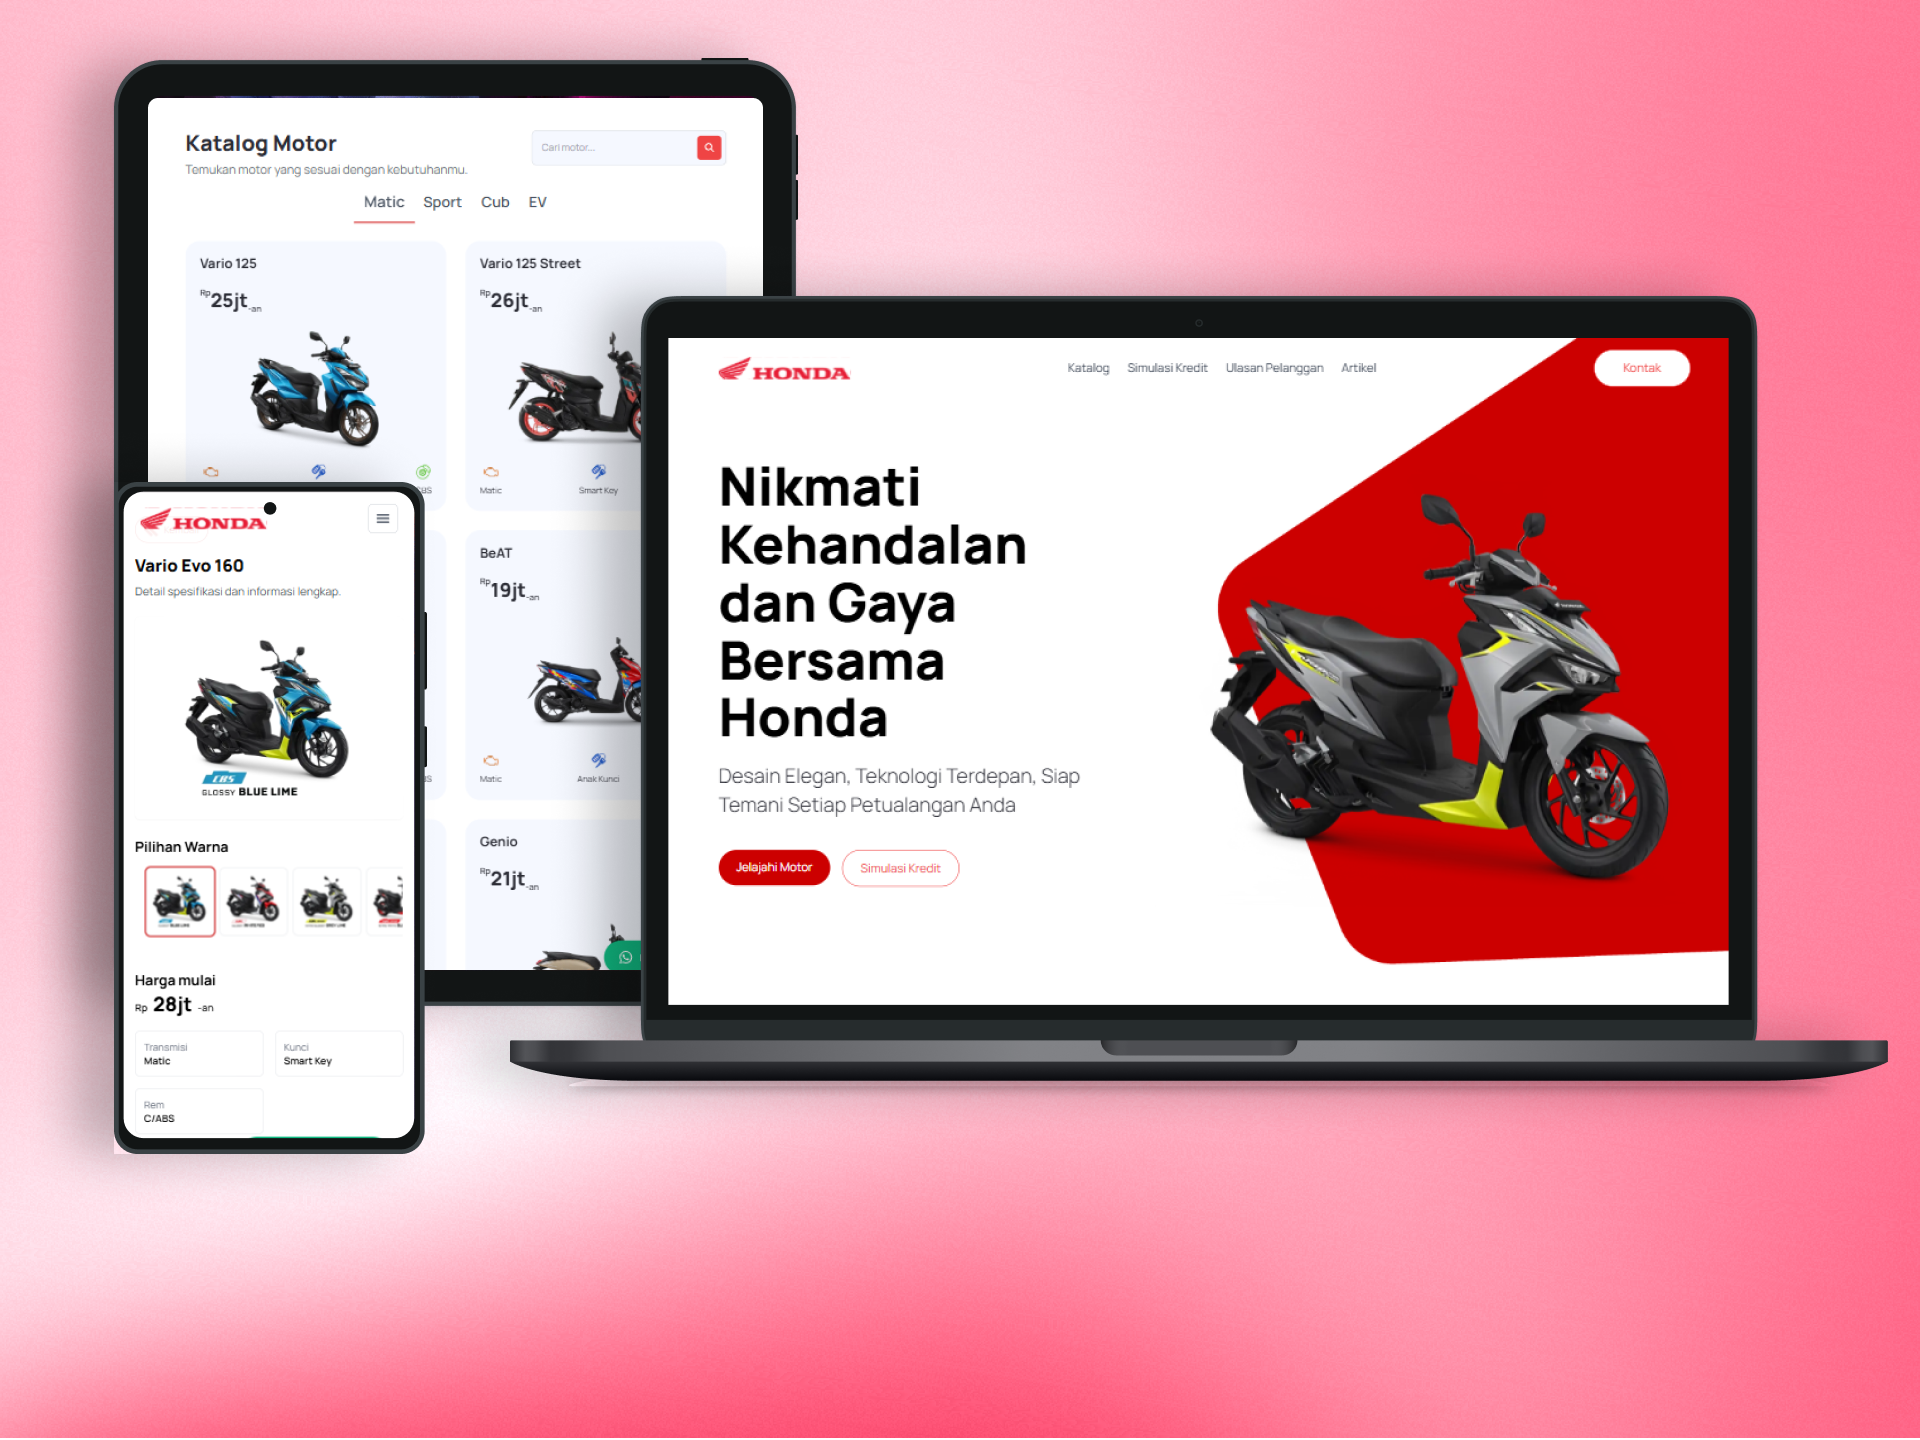
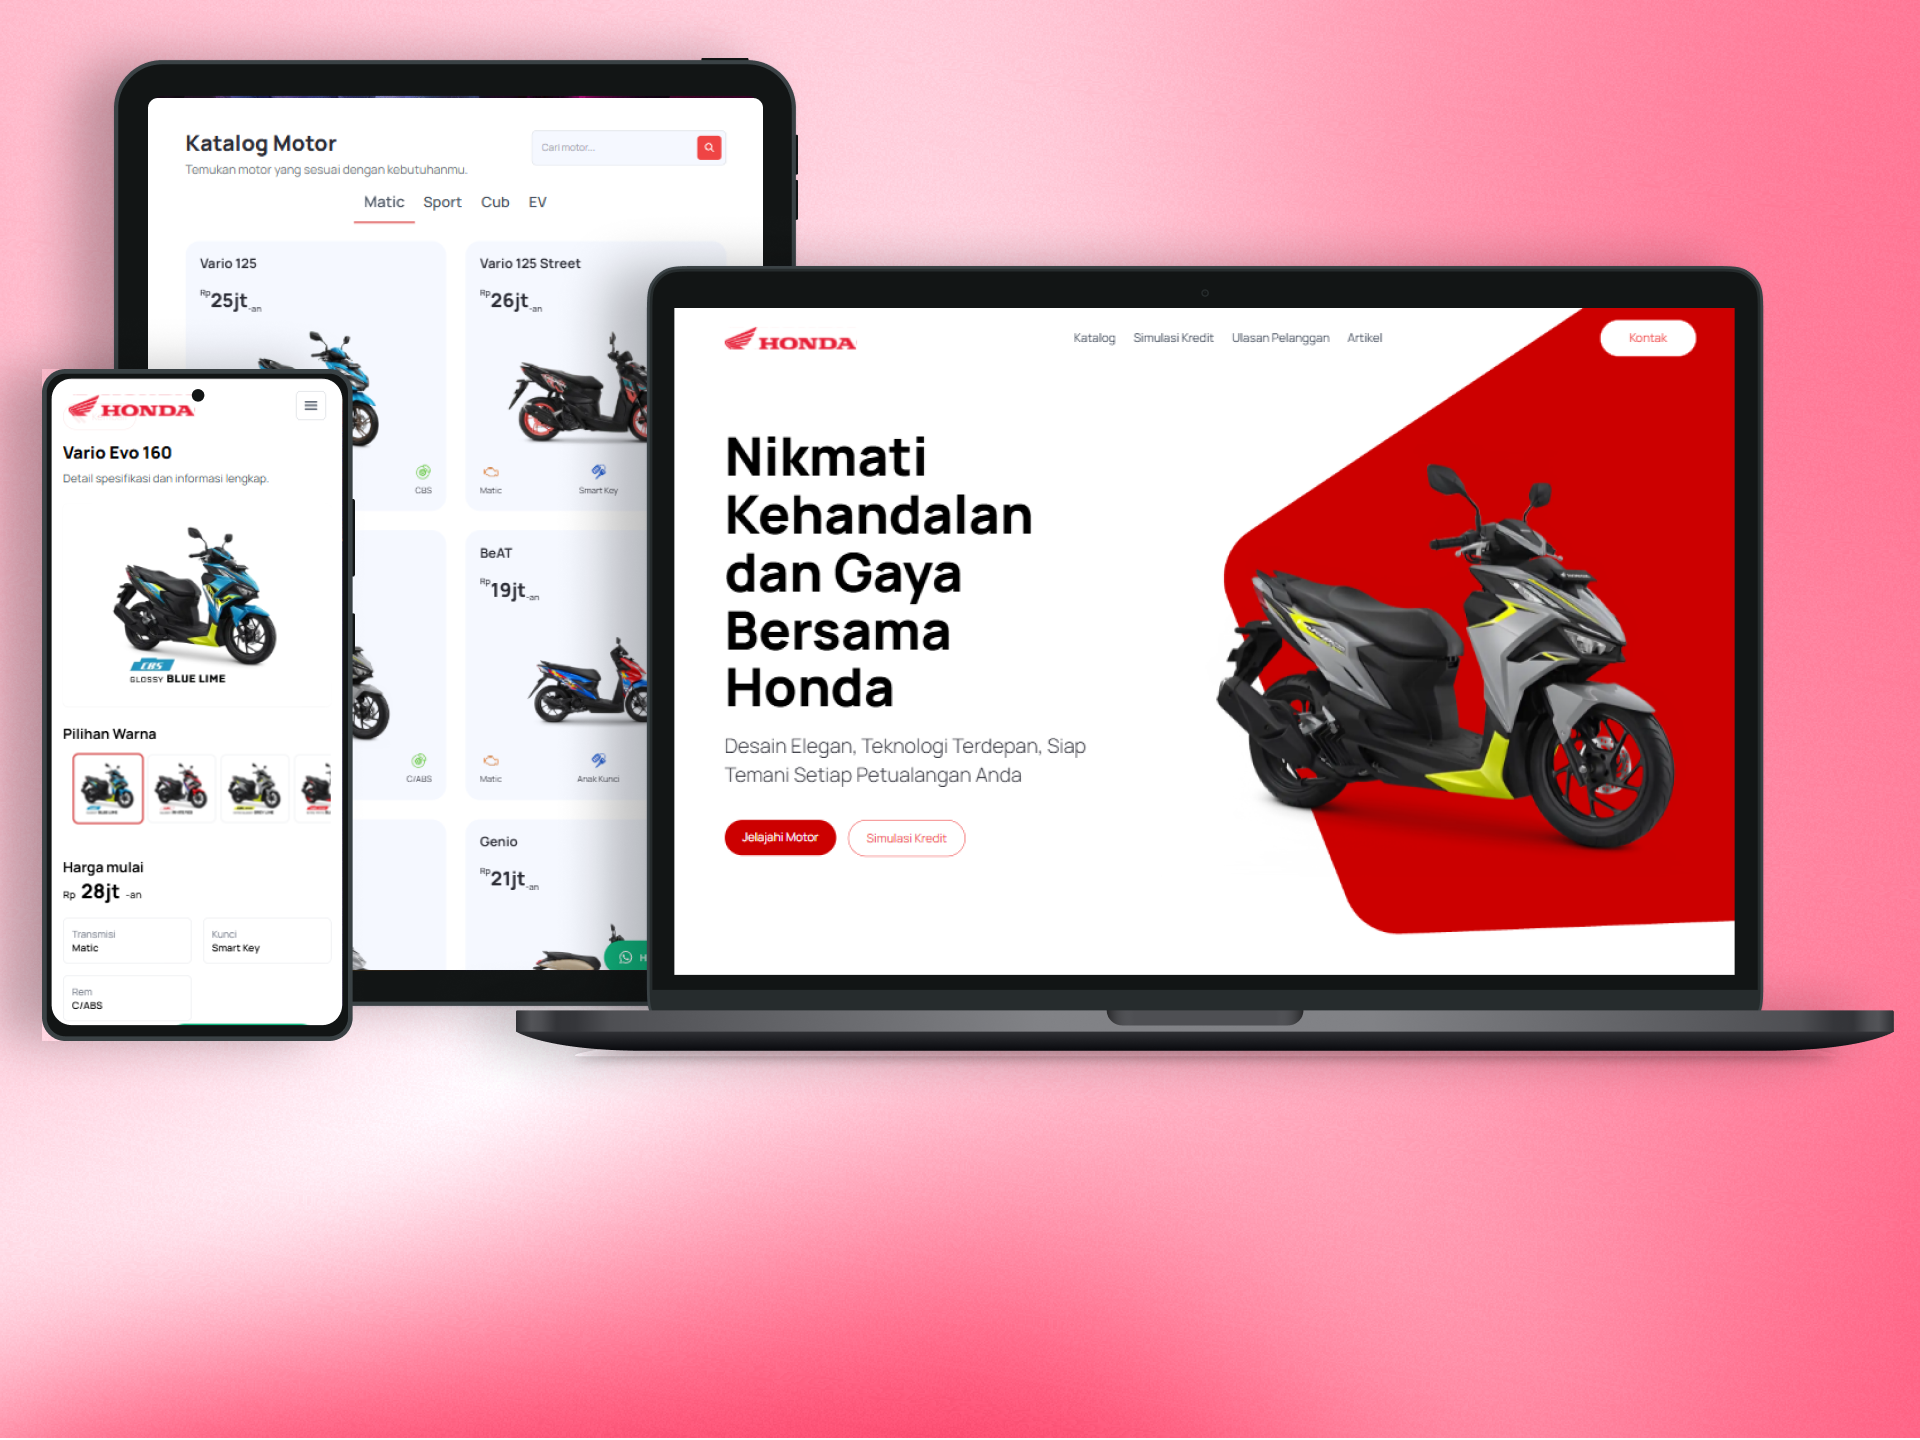
feat: update project image and add new DCI CMS screenshot

Changed region(s): [[0.25, 0.1562, 1.0, 0.7812], [0.0, 0.25, 0.25, 0.8125]]

diff --git a/lib/data.ts b/lib/data.ts
@@ -55,13 +55,13 @@ export const PROJECTS: Project[] = [
     ],
     liveUrl: "",
     repoUrl: "",
-    imageUrl: "/projects/cms-dashboard.png",
+    imageUrl: "/projects/dci-cms.png",
     role: "Frontend Developer",
     period: "Sep 2023 — Oct 2024",
     status: "Production",
     stack: ["React.js", "Next.js", "Tailwind", "TanStack Query", "TypeScript"],
     gallery: [
-      { src: "/projects/cms-dashboard.png", alt: "CMS dashboard overview" },
+      { src: "/projects/dci-cms.png", alt: "CMS dashboard overview" },
       {
         src: makeAiImageUrl(
           "modern CMS content editor UI, split-pane editor and live preview, dark mode, blue purple accents, clean SaaS, high detail",